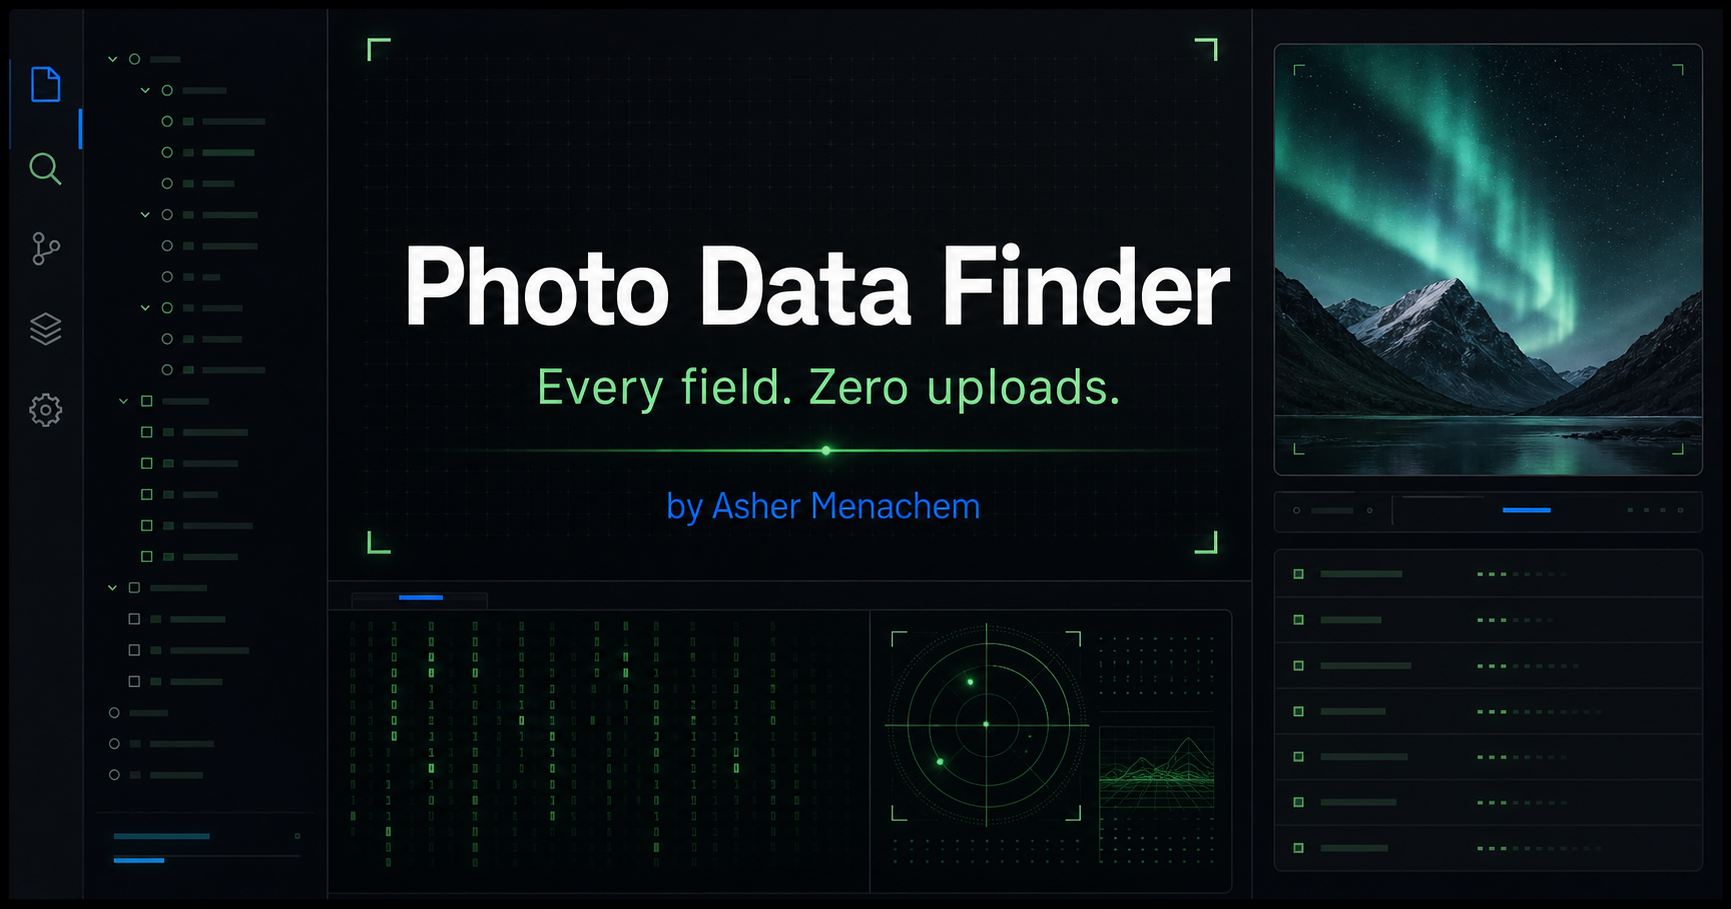
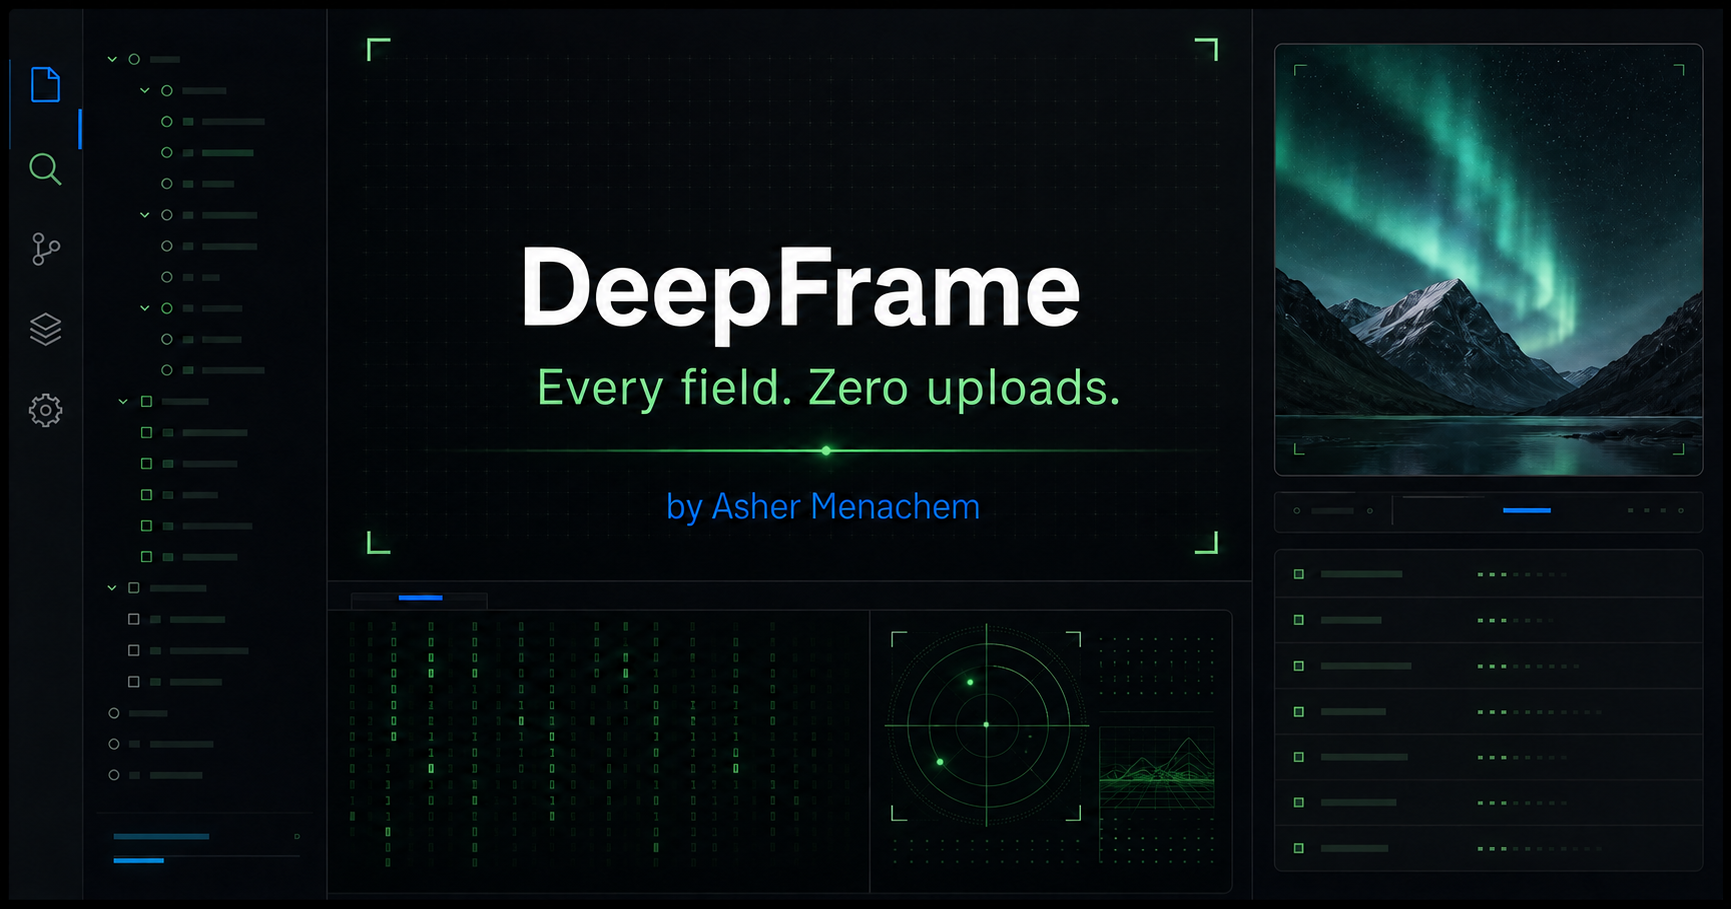
Rename Photo Data Finder to DeepFrame

diff --git a/components/photo-data-finder.tsx b/components/photo-data-finder.tsx
@@ -128,7 +128,7 @@ function AppHeader({ onNew }: { onNew?: (file: File) => void }) {
             <ScanSearch className="size-4 text-emerald-400" />
           </div>
           <div className="min-w-0">
-            <p className="truncate text-sm font-semibold tracking-[-0.025em]">Photo Data Finder</p>
+            <p className="truncate text-sm font-semibold tracking-[-0.025em]">DeepFrame</p>
             <p className="font-mono text-[8px] uppercase tracking-[0.18em] text-emerald-400/45">by Asher Menachem</p>
           </div>
         </div>
@@ -312,7 +312,7 @@ function ShareView({ report, copiedId, onCopy }: { report: PhotoReport; copiedId
   const stem = report.file.name.replace(/\.[^.]+$/, '') || 'photo';
   const nativeShare = async () => {
     try {
-      if (navigator.share) await navigator.share({ title: `Photo metadata — ${report.file.name}`, text });
+      if (navigator.share) await navigator.share({ title: `DeepFrame report — ${report.file.name}`, text });
       else onCopy(text, 'share');
     } catch { /* The user cancelled the native share sheet. */ }
   };
@@ -337,12 +337,12 @@ function Results({ report, previewUrl, view, setView, search, setSearch, group, 
           <div className="p-4 sm:p-6"><AnimatePresence mode="wait"><motion.div key={view} initial={reduceMotion ? false : { opacity: 0, y: 8 }} animate={{ opacity: 1, y: 0 }} exit={reduceMotion ? undefined : { opacity: 0, y: -5 }} transition={{ duration: 0.2 }}>{view === 'overview' && <Overview report={report} copiedId={copiedId} onCopy={onCopy} />}{view === 'metadata' && <MetadataView report={report} search={search} setSearch={setSearch} group={group} setGroup={setGroup} copiedId={copiedId} onCopy={onCopy} />}{view === 'structure' && <StructureView report={report} />}{view === 'share' && <ShareView report={report} copiedId={copiedId} onCopy={onCopy} />}{view === 'raw' && <section className="overflow-hidden border border-emerald-400/10 bg-[#080c09]"><div className="flex items-center justify-between border-b border-emerald-400/10 bg-[#0c120e] px-4 py-3"><div><h2 className="text-xs font-semibold">Lossless decoded report</h2><p className="mt-1 text-[9px] text-muted-foreground">Raw tag values and binary metadata are preserved here.</p></div><CopyButton done={copiedId === 'raw'} onClick={() => onCopy(JSON.stringify(report, null, 2), 'raw')} /></div><pre className="max-h-[760px] overflow-auto p-5 font-mono text-[9px] leading-5 text-emerald-50/50">{JSON.stringify(report, null, 2)}</pre></section>}</motion.div></AnimatePresence></div>
         </main>
       </div>
-      <div className="mt-4 flex flex-col gap-3 border-t border-emerald-400/10 pt-4 sm:flex-row sm:items-center sm:justify-between"><p className="font-mono text-[8px] text-emerald-100/25">PHOTO DATA FINDER BY <span className="text-emerald-400/60">ASHER MENACHEM</span></p><SocialLinks /></div>
+      <div className="mt-4 flex flex-col gap-3 border-t border-emerald-400/10 pt-4 sm:flex-row sm:items-center sm:justify-between"><p className="font-mono text-[8px] text-emerald-100/25">DEEPFRAME BY <span className="text-emerald-400/60">ASHER MENACHEM</span></p><SocialLinks /></div>
     </div>
   );
 }
 
-export default function PhotoDataFinder() {
+export default function DeepFrame() {
   const [report, setReport] = useState<PhotoReport | null>(null);
   const [previewUrl, setPreviewUrl] = useState<string | null>(null);
   const [loading, setLoading] = useState(false);
@@ -360,7 +360,7 @@ export default function PhotoDataFinder() {
     if (!context?.registerTool) return;
     const lifecycle = new AbortController();
     try {
-      void Promise.resolve(context.registerTool({ name: 'read_current_photo_summary', title: 'Read current photo summary', description: 'Read a concise summary of the photo currently inspected in Photo Data Finder.', inputSchema: { type: 'object', properties: {}, additionalProperties: false }, annotations: { readOnlyHint: true, untrustedContentHint: true }, execute: () => { const current = reportRef.current; if (!current) throw new Error('No photo has been inspected yet.'); return { file: current.file, metadataFieldCount: current.fields.length, groups: Array.from(new Set(current.fields.map((item) => item.group))), gps: current.gps ?? null, device: [pick(current, [/exif\.Make$/i]), pick(current, [/exif\.Model$/i])].filter(Boolean).join(' ') || null, lens: pick(current, [/LensModel$/i, /LensID$/i]) ?? null }; } }, { signal: lifecycle.signal })).catch(() => undefined);
+      void Promise.resolve(context.registerTool({ name: 'read_current_photo_summary', title: 'Read current photo summary', description: 'Read a concise summary of the photo currently inspected in DeepFrame.', inputSchema: { type: 'object', properties: {}, additionalProperties: false }, annotations: { readOnlyHint: true, untrustedContentHint: true }, execute: () => { const current = reportRef.current; if (!current) throw new Error('No photo has been inspected yet.'); return { file: current.file, metadataFieldCount: current.fields.length, groups: Array.from(new Set(current.fields.map((item) => item.group))), gps: current.gps ?? null, device: [pick(current, [/exif\.Make$/i]), pick(current, [/exif\.Model$/i])].filter(Boolean).join(' ') || null, lens: pick(current, [/LensModel$/i, /LensID$/i]) ?? null }; } }, { signal: lifecycle.signal })).catch(() => undefined);
     } catch { /* Experimental API unavailable. */ }
     return () => lifecycle.abort();
   }, []);

diff --git a/components/intro-sequence.tsx b/components/intro-sequence.tsx
@@ -35,13 +35,13 @@ export function IntroSequence() {
   const [visible, setVisible] = useState(false);
 
   useEffect(() => {
-    if (window.sessionStorage.getItem('pdf-intro-seen')) {
+    if (window.sessionStorage.getItem('deepframe-intro-seen')) {
       return;
     }
     const frame = window.requestAnimationFrame(() => setVisible(true));
     const close = () => {
       setVisible(false);
-      window.sessionStorage.setItem('pdf-intro-seen', 'true');
+      window.sessionStorage.setItem('deepframe-intro-seen', 'true');
     };
     const onKey = (event: KeyboardEvent) => { if (event.key === 'Escape') close(); };
     window.addEventListener('keydown', onKey);
@@ -55,7 +55,7 @@ export function IntroSequence() {
 
   const close = () => {
     setVisible(false);
-    window.sessionStorage.setItem('pdf-intro-seen', 'true');
+    window.sessionStorage.setItem('deepframe-intro-seen', 'true');
   };
 
   const line = {
@@ -83,7 +83,7 @@ export function IntroSequence() {
               <span className="size-2.5 rounded-full bg-[#ff5f57]" />
               <span className="size-2.5 rounded-full bg-[#febc2e]" />
               <span className="size-2.5 rounded-full bg-[#28c840]" />
-              <span className="ml-2 font-mono text-[9px] text-emerald-200/40">photo-data-finder — secure session</span>
+              <span className="ml-2 font-mono text-[9px] text-emerald-200/40">deepframe — secure session</span>
             </div>
             <div className="px-6 py-10 sm:px-12 sm:py-14">
               <motion.div
@@ -95,7 +95,7 @@ export function IntroSequence() {
                   $ initializing local forensic workspace_
                 </motion.p>
                 <motion.h1 variants={line} className="mt-5 text-4xl font-semibold tracking-[-0.055em] text-white sm:text-6xl">
-                  Photo Data Finder
+                  DeepFrame
                 </motion.h1>
                 <motion.p variants={line} className="mt-3 font-mono text-sm text-emerald-300">
                   by Asher Menachem<span className="ml-1 animate-pulse">▌</span>

diff --git a/app/layout.tsx b/app/layout.tsx
@@ -22,22 +22,22 @@ const jetBrainsMono = JetBrains_Mono({
 
 export const metadata: Metadata = {
   metadataBase: new URL(siteOrigin),
-  title: 'Photo Data Finder by Asher Menachem',
+  title: 'DeepFrame by Asher Menachem',
   description:
-    'Every field. Zero uploads. Inspect complete photo metadata privately in your browser.',
+    'DeepFrame reveals complete photo metadata privately in your browser—every field, with zero uploads.',
   icons: { icon: '/favicon.svg' },
   openGraph: {
-    title: 'Photo Data Finder',
-    description: 'Every field. Zero uploads. A private photo metadata inspector by Asher Menachem.',
+    title: 'DeepFrame',
+    description: 'DeepFrame is a private photo metadata inspector by Asher Menachem. Every field. Zero uploads.',
     url: '/',
-    siteName: 'Photo Data Finder',
+    siteName: 'DeepFrame',
     type: 'website',
-    images: [{ url: '/og.png', width: 1731, height: 909, alt: 'Photo Data Finder — Every field. Zero uploads. By Asher Menachem.' }],
+    images: [{ url: '/og.png', width: 1731, height: 909, alt: 'DeepFrame — Every field. Zero uploads. By Asher Menachem.' }],
   },
   twitter: {
     card: 'summary_large_image',
-    title: 'Photo Data Finder',
-    description: 'Every field. Zero uploads. A private photo metadata inspector by Asher Menachem.',
+    title: 'DeepFrame',
+    description: 'DeepFrame is a private photo metadata inspector by Asher Menachem. Every field. Zero uploads.',
     images: ['/og.png'],
   },
 };

diff --git a/lib/share-report.ts b/lib/share-report.ts
@@ -26,8 +26,8 @@ export function buildShareText(
   const device = [pick(report, [/exif\.Make$/i]), pick(report, [/exif\.Model$/i])].filter(Boolean).join(' ');
   const dimensions = report.image ? `${report.image.width} × ${report.image.height} px (${report.image.megapixels} MP)` : pick(report, [/Image Width$/i]);
   const summary = [
-    `PHOTO DATA FINDER REPORT`,
-    `Generated by Photo Data Finder by Asher Menachem`,
+    `DEEPFRAME REPORT`,
+    `Generated by DeepFrame by Asher Menachem`,
     ``,
     `FILE`,
     `────`,

diff --git a/app/page.tsx b/app/page.tsx
@@ -1,5 +1,5 @@
-import PhotoDataFinder from '@/components/photo-data-finder';
+import DeepFrame from '@/components/photo-data-finder';
 
 export default function Home() {
-  return <PhotoDataFinder />;
+  return <DeepFrame />;
 }
